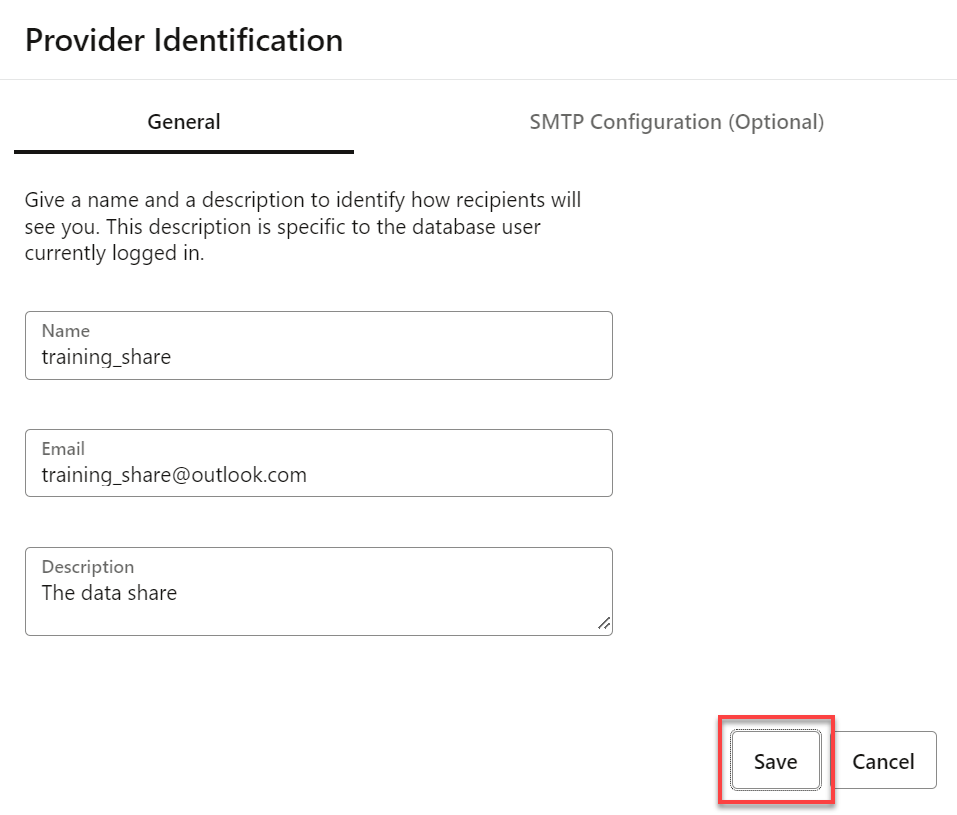
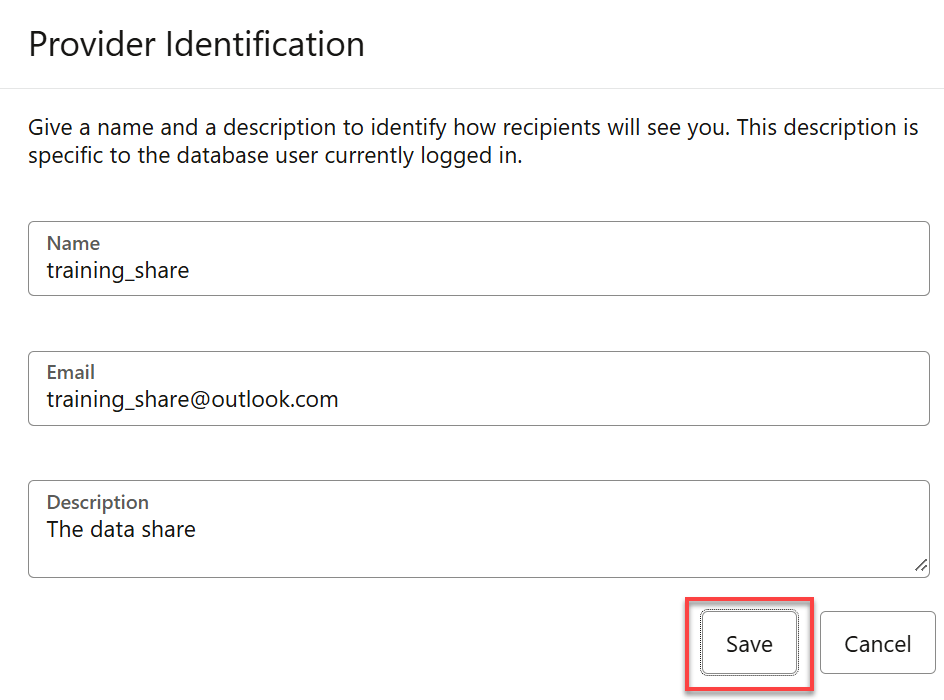
Green button for: Set up live data sharing between Oracle Databases using Database Actions workshop (#380)
* Anoosha's feedback

* Update consume-share.md

* updated 2 screens and a sentence

* minor changes

* deleted extra images and added doc references

* new ECPU changes

* more changes to data sharing workshops

* more changes to fork (data studio)

* more changes

* Marty's feedback

* Marty's feedback to plsql workshop too

* Update setup-workshop-environment.md

* Delete 7381.png

* workshop # 3 ADB set up

and a couple of minor typos in workshops 1 and 2

* changes to adb-dcat workshop

* more changes

* minor typos in all 4 workshops

* quarterly qa build data lake

* new lab 11 in build DL with ADW

* minor changes database actions drop-down list

* final changes to build data lake workshop

* AI updates

AI workshop updates

* ai workshop updates

* Update query-using-select-ai.md

* Update query-using-select-ai.md

* updates

* more updates

* Update query-using-select-ai.md

* more new updates to ai workshop

* Update query-using-select-ai.md

* a new screen capture

* push Marty's feedback to fork

Final changes.

* updates sandbox manifest

* updates

* restored sandbox manifest

* Update setup-environment.md

* updates after CloudWorld

* final updates to ai workshop (also new labs 4 and 5)

* marty's feedback

* incorporated feedback

* minor PR edits by Sarah

* removed steps 7 & 8 Lab 2 > Task 3 per Alexey

The customer asked to remove this as it's not a requirement for the bucket to be public.

* more changes

* more changes per Alexey
[…]

diff --git a/shared/adw-data-lake/setup-live-data-sharing-db-actions/create-share/create-share.md b/shared/adw-data-lake/setup-live-data-sharing-db-actions/create-share/create-share.md
@@ -50,7 +50,7 @@ The **Provider and Consumer** page is displayed. The **PROVIDE SHARE** and the *
 
     The **Provider Identification** panel is displayed.
 
-3. In the **General** tab, specify the following:
+3. Specify the following:
 
     * **Name:** Enter **`training_share`**.
     * **Email:** Enter the email address for the provider such as **`training_share@outlook.com`**.
@@ -104,7 +104,7 @@ When you create the data share using the share live data using direct connection
 
     ![Click recipient.](images/click-recipient.png " ")
 
-9. In the **Create Share Recipient** panel, enter **`training_recipient`** as the name of the recipient, an optional description, and paste the sharing id that you copied to your clipboard in the **Sharing ID** field.
+9. In the **Create Share Recipient** panel, enter **`training_recipient`** as the name of the recipient, an optional description, an email address, and paste the sharing id that you copied to your clipboard in the **Sharing ID** field.
 
     ![Create the new recipient.](images/create-new-recipient.png " ")
 
@@ -134,7 +134,7 @@ You may now proceed to the next lab.
 
 * **Author:** Lauran K. Serhal, Consulting User Assistance Developer
 * **Contributor:** Alexey Filanovskiy, Senior Principal Product Manager
-* **Last Updated By/Date:** Lauran K. Serhal, November 2024
+* **Last Updated By/Date:** Lauran K. Serhal, December 2024
 
 Data about movies in this workshop were sourced from Wikipedia.
 

diff --git a/shared/adw-data-lake/setup-live-data-sharing-db-actions/consume-share/consume-share.md b/shared/adw-data-lake/setup-live-data-sharing-db-actions/consume-share/consume-share.md
@@ -52,6 +52,8 @@ Live data shared with you through data sharing is not automatically available fo
 
         ![Complete share panel.](images/completed-share-panel.png)
 
+    >**Important:** If the **Share Provider** drop-down list doesn't show **`training-share`**, click the **+** sign in the **Available Live Share Providers in the last 7 Days** section to subscribe to the Live Share. It might take some time before you can see the published data share. You can use the **Refresh** icon to refresh the view.
+
 4. Click **Next**.
 
 5. On the **Add Shares** wizard page, click the **TRAINING_SHARE** in the **Available Shares** section, and then click the **Select** (>) icon.
@@ -112,7 +114,7 @@ You may now proceed to the next lab.
 
 * **Author:** Lauran K. Serhal, Consulting User Assistance Developer
 * **Contributor:** Alexey Filanovskiy, Senior Principal Product Manager
-* **Last Updated By/Date:** Lauran K. Serhal, November 2024
+* **Last Updated By/Date:** Lauran K. Serhal, December 2024
 
 Data about movies in this workshop were sourced from Wikipedia.
 

diff --git a/shared/adw-data-lake/setup-live-data-sharing-db-actions/create-user-storage-credentials/create-user-storage-credentials.md b/shared/adw-data-lake/setup-live-data-sharing-db-actions/create-user-storage-credentials/create-user-storage-credentials.md
@@ -156,7 +156,7 @@ You may now proceed to the next lab.
 
 * **Author:** Lauran K. Serhal, Consulting User Assistance Developer
 * **Contributor:** Alexey Filanovskiy, Senior Principal Product Manager
-* **Last Updated By/Date:** Lauran K. Serhal, November 2024
+* **Last Updated By/Date:** Lauran K. Serhal, December 2024
 
 Data about movies in this workshop were sourced from Wikipedia.
 

diff --git a/shared/adw-data-lake/setup-live-data-sharing-db-actions/load-os-data-public/load-os-data-public.md b/shared/adw-data-lake/setup-live-data-sharing-db-actions/load-os-data-public/load-os-data-public.md
@@ -121,7 +121,7 @@ You may now proceed to the next lab.
 
 * **Author:** Lauran Serhal, Consulting User Assistance Developer
 * **Contributors:** Alexey Filanovskiy, Senior Principal Product Manager
-* **Last Updated By/Date:** Lauran Serhal, November 2024
+* **Last Updated By/Date:** Lauran Serhal, December 2024
 
 Data about movies in this workshop were sourced from Wikipedia.
 
